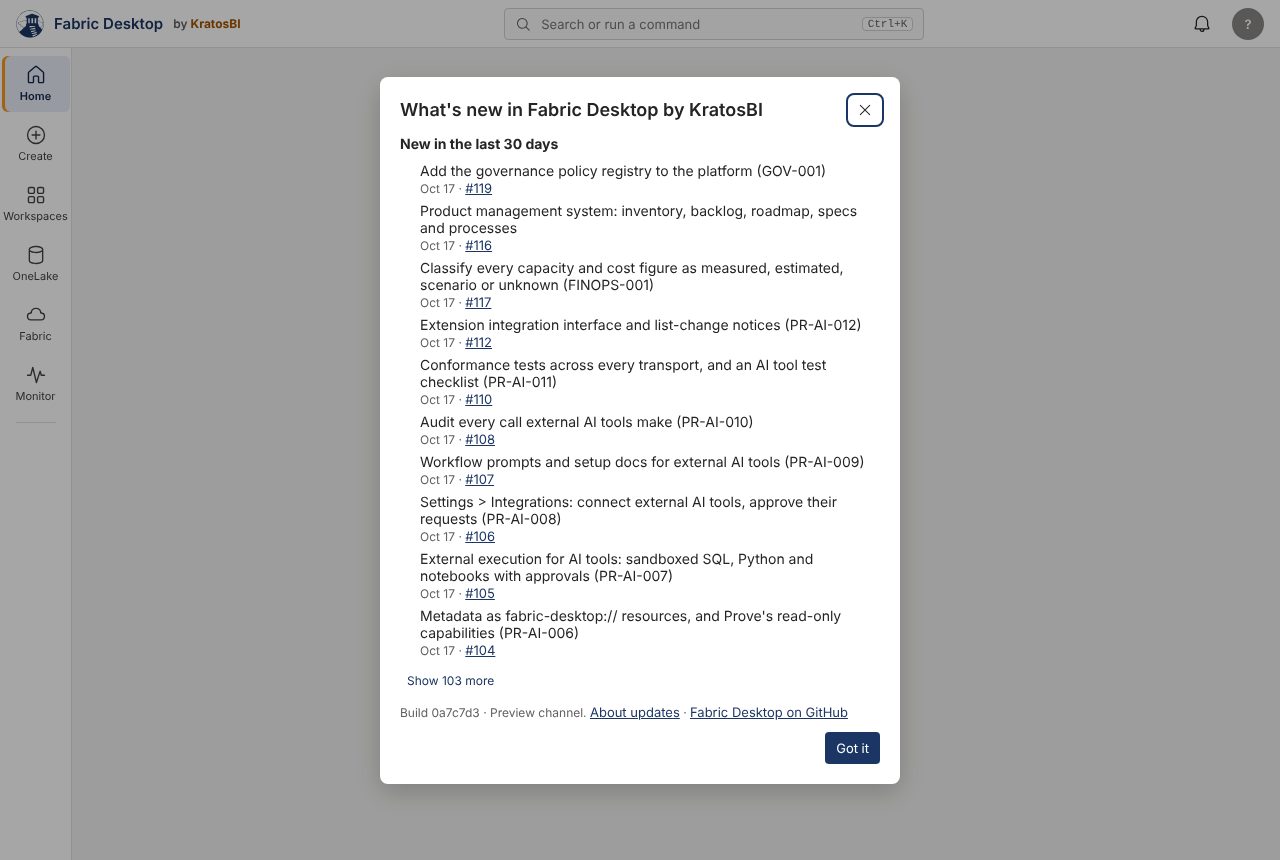
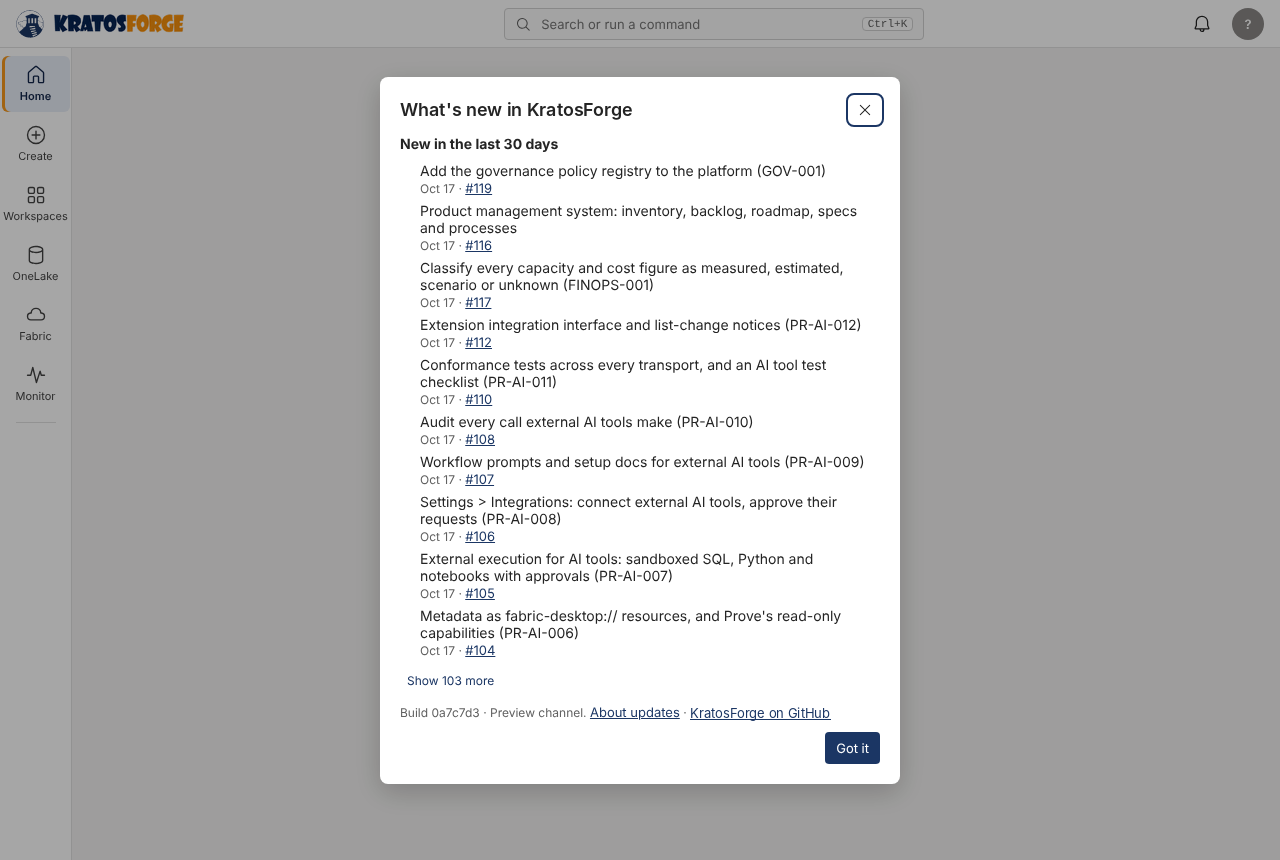
Docs site: say KratosForge only
Remove every prose, title, nav and image mention of the old product
name from the docs site and README. docs/kratosforge.md becomes "Legacy
names": the identifiers that keep the old name (exe, engine zip,
%LOCALAPPDATA%\FabricDesktop, FabricDesktop_Central, FABRIC_DESKTOP_*,
notebook marker cells, ...) stay, in code formatting, with why.

- why-fabric-desktop.md -> why-kratosforge.md; the two overview
  pictures are renamed and their titles now read KratosForge.
- Top bar and heading text in the UX audit and What's new screenshots
  now show KratosForge.
- The shell's no-engine message says KratosForge (docs quote it).

Claude-Session: https://claude.ai/code/session_01CLiGnG4FfE4qRwpSRTV5VQ

Changed region(s): [[0.0312, 0.0, 0.1875, 0.0605], [0.3438, 0.1209, 0.5938, 0.1512], [0.5312, 0.8163, 0.6562, 0.8465]]

diff --git a/app/src-tauri/src/main.rs b/app/src-tauri/src/main.rs
@@ -169,8 +169,8 @@ fn engine_python() -> Option<PathBuf> {
 /// look for a `python` on PATH, which could run whichever one comes first (SH-10).
 // Published builds install their engine before starting it, so this is a build with no engine to
 // download (one not built from a published commit).
-const NO_ENGINE: &str = "The Fabric Desktop engine isn't installed, and this build has none to download. \
-    Install a published build of Fabric Desktop, or set FABRIC_DESKTOP_PYTHON to the full path \
+const NO_ENGINE: &str = "The KratosForge engine isn't installed, and this build has none to download. \
+    Install a published build of KratosForge, or set FABRIC_DESKTOP_PYTHON to the full path \
     of a Python with the sidecar installed.";
 
 /// Picks the interpreter that runs the sidecar and the startup check, from

diff --git a/docs/quality/pr-review.md b/docs/quality/pr-review.md
@@ -1,6 +1,6 @@
 # PR quality gate
 
-How every pull request to Fabric Desktop by KratosBI gets an engineering quality decision. It sits beside the hardening release gates (`docs/hardening/readiness-checklist.md`, PR #137) and the usability gates (`docs/ux/release-review.md`, PR #166) and doesn't repeat them: those ask "is it safe" and "is it usable"; this asks "does this code deserve to exist in this form". Release management decides merges and promotes; this review recommends, and never merges or deploys.
+How every pull request to KratosForge gets an engineering quality decision. It sits beside the hardening release gates (`docs/hardening/readiness-checklist.md`, PR #137) and the usability gates (`docs/ux/release-review.md`, PR #166) and doesn't repeat them: those ask "is it safe" and "is it usable"; this asks "does this code deserve to exist in this form". Release management decides merges and promotes; this review recommends, and never merges or deploys.
 
 ## Scoring
 
@@ -403,11 +403,11 @@ What the set says about the baseline: the five FAILs are the patterns the [findi
 | #294 | FinOps: capacity settings history (`fdcap_`) | PASS at 3bd52b4 (draft, Preview, engine only) | 9.0 | None blocking. The only Fabric call is the existing `list_capacities` (GET /v1/capacities, paged), and it never changes a capacity. Writes go only to the `fdcap_` tables through `central_family(..., approve=...)`, so the first read is refused with 'Confirm to continue.' until confirmed. `capacity_settings_read` is audited as a write (not READ_ONLY). No new scope, and docs/permissions.md names this use of Capacity.Read.All. Diff logic (probe): a capacity missing from a read isn't marked changed; when it returns resized and paused the change spans from its last-seen read; ids compared lower-case; same-name different-id capacities stay apart; a repeated read adds nothing. The docs say it is untested on a live tenant. Nits: (1) `fdcap_read` grows as capacities × reads with no retention; worth a retention note. (2) A field briefly missing from a listed capacity logs a change to null. (3) Paging follows `continuationUri` through `_paged`, which uses HD-058's Fabric-host allowlist only once #272 lands (same exposure as `list_capacities` on main today). Tests run: test_capacity_history plus test_tenant_history gave 18 passed (targeted only). Clean merge with main. Probe: `quality/repros/r294_compare_edges.py`. |
 | #293 | Staged roadmap: one keys database for Dev, Test and Prod (engine) | FAIL at 8d279a0 (automatic failure: a Prod key can change though the docs say it never does; draft, Preview) | 7.8 | (1) Prod can issue keys during the move. `platform_share_keys` exports each source once, renumbers Dev/Test into the shared database, then switches with no lock on key issuing and no final re-check. Reproduced: Prod issued `late_prod_customer`=3 mid-move; in the shared database 3 is Dev's `aaron`; after the switch Prod's next load gets 4, so Prod facts carrying 3 point at the wrong customer. Fix: block key issuing on every source for the move (or refuse while runs are active), and before switching re-export each source and refuse if its row count or top key changed. (2) A partial move can't be re-run. If Test fails mid-move, Prod's and Dev's keys stay in the shared database; once Prod issues another key every re-run is refused ('key 2 is already used here by another business key'), and there is no reset. Fix: stage the move and clear the unswitched shared tables on retry after a confirm, or explain the state and offer a reset. (3) No preview or confirm: it writes to Fabric and switches every environment's key source with no `approve`. Return a dry-run report (tables, rows, how many Dev/Test keys change) and refuse with 'Confirm to continue.' until approved. Minor: under a policy-managed platform the copy runs before `_save_platform` raises PermissionError, so check that first. Nit: `DEFAULT_NAME = "Fabric Desktop Keys"` predates the rename. Verified fine: Prod numbers copy exactly and are checked row by row; sources are only read; HD-036 untouched (dedicated Keys workspace); the 3 new methods are audited as writes; no new scopes; Preview note in docs; server.METHODS and service.py merge cleanly with main. Tests run: test_shared_keys plus the related platform/central/keys files gave 77 passed. Probe: `quality/repros/r293_move_races.py` (re-run by me, both scenarios reproduce). |
 | #280 | Create tiles re-grade | PASS at 5c84708 (was CONDITIONAL 8.6 at ebaec3f; draft) | 9.2 | Both conditions met. Main is merged and the toast says 'Restart KratosForge'. The window `error` listener reports only events that carry `e.error`, so ResizeObserver noise and resource load failures stay quiet, and a browser test covers that. Tests run: ui.test.cjs 98/98; browser create-tiles.test.cjs 4/4 (both tiles open with the current engine, old-engine message, noise ignored, a thrown handler error and a rejected promise both show a toast). Clean merge with main 39f02ab. |
-| #280 | Create tiles: failures show an error instead of doing nothing (#279) | CONDITIONAL at ebaec3f (draft) | 8.6 | Conditions: (1) Merge main and say KratosForge. The new wizard toast says 'Restart Fabric Desktop by KratosBI', and after #287 that fails `ui.test.cjs` 'the app is called KratosForge everywhere people read it' (merged tree of #280 + main 39f02ab: 97 pass, 1 fail). The merge has no conflict, so git won't catch it. (2) The new global `error` listener (`app.js:92`) also fires for Chromium/WebView2's benign 'ResizeObserver loop completed with undelivered notifications' (e.error is null, only a message), and the app uses ResizeObserver in `app.js:761` and `meshmap.js:79`. Ignore that message (or events with no `e.error`) so people don't get a 'Something didn't work' toast for noise. The rest is sound: `friendlyError` handles strings and objects, cancellations stay quiet, `attempt()`-wrapped calls don't double-report, and the old-engine wizard check stops on a missing `groups`/`choices`/`multiline` field with a clear message. Tests run: ui.test.cjs on the merged tree as above. |
+| #280 | Create tiles: failures show an error instead of doing nothing (#279) | CONDITIONAL at ebaec3f (draft) | 8.6 | Conditions: (1) Merge main and say KratosForge. The new wizard toast says `Restart Fabric Desktop by KratosBI`, and after #287 that fails `ui.test.cjs` 'the app is called KratosForge everywhere people read it' (merged tree of #280 + main 39f02ab: 97 pass, 1 fail). The merge has no conflict, so git won't catch it. (2) The new global `error` listener (`app.js:92`) also fires for Chromium/WebView2's benign 'ResizeObserver loop completed with undelivered notifications' (e.error is null, only a message), and the app uses ResizeObserver in `app.js:761` and `meshmap.js:79`. Ignore that message (or events with no `e.error`) so people don't get a 'Something didn't work' toast for noise. The rest is sound: `friendlyError` handles strings and objects, cancellations stay quiet, `attempt()`-wrapped calls don't double-report, and the old-engine wizard check stops on a missing `groups`/`choices`/`multiline` field with a clear message. Tests run: ui.test.cjs on the merged tree as above. |
 | #292 | SQL compatibility browser test: rules version 2026.10.2 | PASS at ce78c27 | 9.4 | None. Test and docs only. #271 bumped `RULE_VERSION` to 2026.10.2 (`sqlcompat/profiles.py:14` on main), and the browser test regex and the docs version line still said 2026.10.1. No other references to 2026.10.1 remain. Tests run: `sql-compat.test.cjs` gives 9/9 twice on #292 and fails test 1 (8/9) on main 39f02ab. Fixes the browser failure seen on every UI PR. |
 | #282 | Validate notebook re-grade: Problems + Clean up tabs (NB-017, NB-018) | FAIL at ea44ed0 (automatic failure: overwrite wider than asked; was PASS 9.1 at 5697869; draft) | 8.2 | (1) Clean up's Undo stays offered after the person keeps editing. Clicking it puts back the pre-tidy-up snapshot (`validate.js:192,210-219`; `v.undo` is cleared only by Undo itself), which silently discards every later edit, and autosave writes that to the notebook file with no confirmation. Reproduced in a browser against the real engine: after apply, edit, Undo, the edit was gone and the last `save_notebook` carried the reverted sources. Fix: drop `v.undo` on any later cell edit (or offer Undo only while the cells still match what Apply produced), plus a browser test for edit-then-Undo. (2) `docs/validate-notebook.md` says a tidy-up never changes what the code does, but 'Remove unused imports' is ticked by default and removes side-effect imports (`import janitor`, then `df.clean_names()` in a later cell). Keep imports that no cell names unless the module is known to be side-effect free, or untick that tidy-up by default and soften the claim. Verified fine: the engine only reads code (`notebook_cleanup_plan` and apply are in READ_ONLY and return cells); every cleaned cell still parses; frozen and parameters cells, `%run`/`exec`/`import *`, later-cell, getattr and f-string uses are left alone; print removal is off by default; suggestions never apply themselves; Preview tag and How-this-works panel present; same-cell wording fixed. Tests run: ui 101/101; browser validate 2/2; sql-compat 'Warehouse problem is underlined' also fails on main 39f02ab (8/9 on both); full sidecar 2322 passed, 3 skipped; zensical --strict clean; clean merge with main. Probe: `quality/repros/r282_cleanup.py`. |
-| #287 | KratosForge rename re-grade | PASS at 51bb473 (was CONDITIONAL 8.4 at 68471e7; draft; workflow change, needs Chris's review) | 9.1 | Conditions met: REGISTRY_VERSION 3 records the real fingerprint; the orders-daily and TPC-H examples are regenerated; ci.yml/promote.yml change only the `--title` text (tags `latest`/`stable` and asset names untouched); issue/discussion templates renamed; Windows program-name row added. Confirmed main 69ae526 has no `promoted to Stable` phrase yet. Merge-order condition: #241 and #287 merge silently (no conflict), so the result would keep #241's two build titles as 'Fabric Desktop by KratosBI (build ...)' (ci.yml:295, promote.yml:90). Whichever lands second renames those two and keeps the exact `promoted to Stable` text the prune step matches (ci.yml:318). Tests run: test_activity_registry plus test_side_by_side gave 99 passed, 2 skipped; ui.test.cjs 98/98; clean merge with main 69ae526 and with #241 b047c1e. |
-| #287 | Rename to KratosForge + one-time launch announcement | CONDITIONAL at 68471e7 (draft) | 8.4 | Conditions: (1) `test_activity_registry.py` fails 2 tests at the PR head (main passes): `test_registry_version_changes_with_entries` (the fingerprint recorded for version 3 doesn't match the entries) and `test_example_report_in_docs_is_current` (the example compatibility JSON in docs/orchestration still shows `registry_version` 2). Record the real fingerprint and regenerate the example. (2) `docs/kratosforge.md:11` says the GitHub release titles are now KratosForge, but the PR doesn't touch `.github/` (`ci.yml:278` and `promote.yml:42` still say Fabric Desktop by KratosBI). Either drop the line or change the titles; if the titles change, #241's build-* and promote titles must keep the exact phrase `promoted to Stable` that its prune step matches, and Chris reviews it as a workflow change. Nit: the 'What didn't change' table could mention that the Windows program name (productName) stays Fabric Desktop. Verified: Chris asked for it in his own words (rename thread root, 2026-10-19 08:22Z). productName, the Tauri id, updater/asset names, the fabric_desktop package, MCP server name, notebook markers, FabricDesktop_Central, the Platform workspace default, FABRIC_DESKTOP_* env vars and fd* prefixes are unchanged. REGISTRY_VERSION is informational only, and nothing branches on it. Splash: shows once (try/catch storage; fails open to showing again), role=dialog/aria-modal, focus on its button with the Tab trap, Escape closes it, reduced motion respected, local assets only. Tests run: ui.test.cjs 98/98; browser rename-splash/keyboard/confirm 11/11; zensical --strict clean; 18 sidecar files 525 passed, 2 failed (above). Clean merge with main 2ee22f9. |
+| #287 | KratosForge rename re-grade | PASS at 51bb473 (was CONDITIONAL 8.4 at 68471e7; draft; workflow change, needs Chris's review) | 9.1 | Conditions met: REGISTRY_VERSION 3 records the real fingerprint; the orders-daily and TPC-H examples are regenerated; ci.yml/promote.yml change only the `--title` text (tags `latest`/`stable` and asset names untouched); issue/discussion templates renamed; Windows program-name row added. Confirmed main 69ae526 has no `promoted to Stable` phrase yet. Merge-order condition: #241 and #287 merge silently (no conflict), so the result would keep #241's two build titles as `Fabric Desktop by KratosBI (build ...)` (ci.yml:295, promote.yml:90). Whichever lands second renames those two and keeps the exact `promoted to Stable` text the prune step matches (ci.yml:318). Tests run: test_activity_registry plus test_side_by_side gave 99 passed, 2 skipped; ui.test.cjs 98/98; clean merge with main 69ae526 and with #241 b047c1e. |
+| #287 | Rename to KratosForge + one-time launch announcement | CONDITIONAL at 68471e7 (draft) | 8.4 | Conditions: (1) `test_activity_registry.py` fails 2 tests at the PR head (main passes): `test_registry_version_changes_with_entries` (the fingerprint recorded for version 3 doesn't match the entries) and `test_example_report_in_docs_is_current` (the example compatibility JSON in docs/orchestration still shows `registry_version` 2). Record the real fingerprint and regenerate the example. (2) `docs/kratosforge.md:11` says the GitHub release titles are now KratosForge, but the PR doesn't touch `.github/` (`ci.yml:278` and `promote.yml:42` still say `Fabric Desktop by KratosBI`). Either drop the line or change the titles; if the titles change, #241's build-* and promote titles must keep the exact phrase `promoted to Stable` that its prune step matches, and Chris reviews it as a workflow change. Nit: the 'What didn't change' table could mention that the Windows program name (productName) stays `Fabric Desktop`. Verified: Chris asked for it in his own words (rename thread root, 2026-10-19 08:22Z). productName, the Tauri id, updater/asset names, the fabric_desktop package, MCP server name, notebook markers, FabricDesktop_Central, the Platform workspace default, FABRIC_DESKTOP_* env vars and fd* prefixes are unchanged. REGISTRY_VERSION is informational only, and nothing branches on it. Splash: shows once (try/catch storage; fails open to showing again), role=dialog/aria-modal, focus on its button with the Tab trap, Escape closes it, reduced motion respected, local assets only. Tests run: ui.test.cjs 98/98; browser rename-splash/keyboard/confirm 11/11; zensical --strict clean; 18 sidecar files 525 passed, 2 failed (above). Clean merge with main 2ee22f9. |
 | #286 | Prove: #283 nits (unreachable branch, checksum rounding doc) | PASS at 29e7897 | 9.3 | None. The removed `{number, integer}` branch in `_keyed` is unreachable: `_columns` (verify.py:96-97) already rewrites widened pairs to (number, number). The doc line matches `_norm`/`fingerprint` (decimals and widened columns rounded to 10 significant digits; integers exact). No behaviour change: the r283 probe output is byte-identical on main and #286. Tests run: test_prove plus test_side_by_side gave 74 passed, 2 skipped; it merges cleanly with main. |
 | #285 | ORCH-003: on-disk run record test waits for the final save | PASS at 0893e92 | 9.3 | None. Test-only. `saved()` polls the run JSON until its state is final (30 s limit, tolerates a partial read) because status reads the live run, which turns final just before the background thread's last save. This fixes the Windows flake seen on #284. Reproduced independently with a 0.5 s sleep before the final `_changed()` in `orchestration/runner.py:257`: main's test fails ('running' == 'succeeded'), #285's passes. Sleep removed afterwards; `test_pipeline_runs.py` gave 104 passed. The restart check that follows now also reads a final record. |
 | #283 | Prove re-grade: tolerance only between finite numbers | PASS at 533721b (was FAIL 7.5 at 8c69985) | 9.1 | Fixed. An `isfinite` guard means the abs/rel tolerance applies only between finite values; NaN=NaN, inf=inf and -inf=-inf still match, while 1 vs NaN, 1 vs inf, inf vs -inf, 1e308 vs inf and 0 vs null differ in all three modes (checked by hand). This also fixes main's pre-existing double-vs-double false match in keyed mode. Probe `quality/repros/r283_int_double.py` now gives the same answer in every mode on every row. Tests run: test_prove plus test_side_by_side gave 74 passed, 2 skipped; it merges cleanly with main. Nits: the `{ka, kb} <= {number, integer}` branch in `_keyed` is now unreachable, and the docs could say that above `limit_rows` integers are compared to 10 significant digits. |
@@ -439,7 +439,7 @@ What the set says about the baseline: the five FAILs are the patterns the [findi
 | #266 | HD-053 re-check | PASS holds at cfb4fab (maintainer review: data mutation) | 9.2 | New `test_notebookutils_rm_cant_climb_out_of_files` refuses `Files/../..`, `Files/..` and `/lakehouse/default/Files/%2e%2e` with 0 mutating requests. Merge with HD-039 keeps `item_path` in all six FileStore methods; only GETs go through `send_with_retry`, upload PUT/PATCH and DELETE are sent once. Repros: r266_item_path.py 0 escapes; r266_notebook_rm_escape.py 3/3 refused, 0 requests. Run: test_contract_onelake + test_retry_after 63 passed; `-k "onelake or notebookutils or retry or lakehouse or files"` 196 passed. |
 | #263 | HD-055 re-check | PASS holds at cbbd558; needs a main merge (conflicts in estate_service.py, leases.py, mailbox.py) | 9.1 | All four nits fixed: server.py `_log_to_stderr` adds one INFO handler on `fabric_desktop` with a formatter that passes the whole record through `secrets()` (run: DEBUG dropped, SAS `sig=`, Bearer and URL userinfo in a traceback come out `[removed]`); `describe()` guards `str(exc)`; proof_runtime.py:174 catches ImportError only; schedule scan logs one WARNING per scan. Run: test_silent_except + test_redact 71 passed; `-k "schedule or proof or server or log or redact"` 155 passed. Nits: some INFO lines fire on every call (`get_status` "Not signed in", MCP `_client_name`); a bare `sig=` outside a URL isn't redacted (pre-existing). |
 | #260 | HD-014 main-merge re-check | PASS holds at 009a352 | 9.2 | Merge only: the PR's change against main 7d3b82c matches 779b19c line for line (16 files, +733/-79); main's #265 kernel test kept. Run: `-k "integrations or scope"` 312 passed. |
-| #269 | Wolf Forge emblem as the app logo, favicon and Windows icon | PASS at 77a9014 (draft) | 9.2 | No blocker; images and markup only (no code path, write, scope, CSP or workflow change); merges cleanly with main 7d3b82c. Icons opened with PIL: tauri.conf.json still points at `icons/icon.png` (512x512 RGBA) and `icons/icon.ico` (16/24/32/48/64/128/256, as before); app/ui emblem 128x128 and favicon 32x32 with transparent corners. Nothing still references the deleted `app/ui/kratosbi-mark.svg`; index.html loads only local PNGs; title "Fabric Desktop by KratosBI" unchanged. Emblem ownership is the PR's claim (not verified). Run: UI 94/94 (new test checks header, favicon, removed SVG, ico sizes); browser 69/69; `zensical build --strict` clean. Not run: Windows taskbar/installer rendering (no GTK); #250 CSP interaction inferred fine (`img-src 'self'`). Nits: the 16 px frame is muddy (hand-tune it); header `alt="KratosBI"` next to the visible "by KratosBI" is read twice (use `alt=""`); repo grows ~500 KB. |
+| #269 | Wolf Forge emblem as the app logo, favicon and Windows icon | PASS at 77a9014 (draft) | 9.2 | No blocker; images and markup only (no code path, write, scope, CSP or workflow change); merges cleanly with main 7d3b82c. Icons opened with PIL: tauri.conf.json still points at `icons/icon.png` (512x512 RGBA) and `icons/icon.ico` (16/24/32/48/64/128/256, as before); app/ui emblem 128x128 and favicon 32x32 with transparent corners. Nothing still references the deleted `app/ui/kratosbi-mark.svg`; index.html loads only local PNGs; title `Fabric Desktop by KratosBI` unchanged. Emblem ownership is the PR's claim (not verified). Run: UI 94/94 (new test checks header, favicon, removed SVG, ico sizes); browser 69/69; `zensical build --strict` clean. Not run: Windows taskbar/installer rendering (no GTK); #250 CSP interaction inferred fine (`img-src 'self'`). Nits: the 16 px frame is muddy (hand-tune it); header `alt="KratosBI"` next to the visible "by KratosBI" is read twice (use `alt=""`); repo grows ~500 KB. |
 | #262 | Optimize central_restrict re-grade | PASS at e2c5816 (was CONDITIONAL 8.3 at 19a0a23; maintainer review: role changes) | 9.1 | Both conditions fixed. 1: a `*` DefaultReader now drops every registered family's schema (roles.py:69-70), so a second family can still be restricted (`/Tables/hr` absent after restricting `access`). 2: roles compare by paths and members only (`_same`, roles.py:38-45) and Fabric's id/eTag are kept when they match, so a rerun gives `changed: False` and 0 PUTs. The PUT sends `If-Match` with the list ETag (fabric_api.py:352-371); 412/PreconditionFailed becomes CHANGED_SINCE with no audit row (optimize_service.py:222-226). A mismatched `shown=` refuses before any PUT; refusals and previews make 0 PUTs; other roles go into the PUT unchanged; no new scope (`OneLake.ReadWrite.All`, docs/permissions.md:68). Probe r262b_restrict_fixes.py 4 passed. Run: optimize roles/service/setup + fabric_api 55 passed; full sidecar 2080 passed, 2 skipped; UI 93/93. Must-do for Governance as first caller: always pass `shown=` with `approve=True` (without it the plan is re-read and written as is). Nits: make `shown=` required on approve; return the change list from the preview (the "; "-joined string can't be split back); mark central_restrict untested on a live tenant (ETag on list and If-Match on PUT unverified; with no ETag the PUT goes without If-Match); estate_service.py:445-458 still does a whole-list PUT (follow-up). |
 | #269 | Emblem nit re-check | PASS holds at 62882fc (draft) | 9.3 | Both nits fixed: header emblem `alt=""` (index.html), and icon.ico's 16 px entry re-rendered (ico still 16/24/32/48/64/128/256, checked with PIL). Only those two files changed since 77a9014. Run: UI 94/94. |
 | #267 | HD-054: opt-in live SQL compatibility test against a test workspace | PASS at 708eaac (draft; maintainer review: workflow and test sign-in) | 9.1 | Workflow runs only on `workflow_dispatch` and `schedule`, gated `if: github.ref == 'refs/heads/main'`, `permissions: contents: read`, the secret only on the gated step, actions SHA-pinned; inert until the secret exists. The live test can't reach production: workspace marker required, production-looking names refused, read-only cases only, rollback, service-principal sign-in only. Run: targeted 314 passed, 70 skipped (live cases), 7 xfailed (strict); full sidecar 2374 passed, 72 skipped, 7 xfailed; `zensical build --strict` clean. Live run not executed here (no tenant). Nits: no GitHub environment with required reviewers; docs don't say the weekly run uses capacity; results are written only at teardown. Six local bugs the xfails pin, for the SQL owner: DATENAME crashes Format SQL (AttributeError in sql_format.py `_difference`); Format SQL rewrites LIMIT to TOP for T-SQL so SYN-001 is lost (`format_sql`); the check misses QUALIFY and CAST AS STRING (sqlcompat/rules.py:77, SYN-009); Spark `date_add` returns a timestamp locally and `trunc(..., 'MM')` fails in DuckDB (sqlglot transpile in sql.py). |

diff --git a/README.md b/README.md
@@ -2,15 +2,15 @@
 
 ![KratosForge](docs/brand/kratosforge-wordmark.png)
 
-*Formerly Fabric Desktop. [What changed and what didn't](docs/kratosforge.md).*
+*Some files, folders and settings keep a legacy name so nothing breaks: [which ones and why](docs/kratosforge.md).*
 
 Do your Microsoft Fabric data engineering on your own Windows PC: notebooks, Spark SQL queries, jobs and a metadata-driven medallion framework. Results are written straight into OneLake as Delta tables. A run on this PC starts no Fabric job, which cuts Fabric CU use; its OneLake reads and writes still use capacity.
 
-![KratosForge in a Microsoft Fabric solution: develop locally, execute on your infrastructure, store and consume in Microsoft Fabric](docs/fabric-desktop-solution.png)
+![KratosForge in a Microsoft Fabric solution: develop locally, execute on your infrastructure, store and consume in Microsoft Fabric](docs/kratosforge-solution.png)
 
 **Develop with KratosForge. Execute on your infrastructure. Store and consume in Microsoft Fabric.** The picture above is where the product is headed. Today the desktop app and a single-node [headless agent](docs/agent.md) are built; multiple workers, resource governance and pipeline hand-off are later milestones in the [enterprise roadmap](docs/enterprise-roadmap.md).
 
-**Why it exists:** Power BI took off because developers could build on their own machine and deploy to the cloud. KratosForge brings that model to data engineering. Read the story in **[Bringing the Power BI Model to Data Engineering](docs/why-fabric-desktop.md)**.
+**Why it exists:** Power BI took off because developers could build on their own machine and deploy to the cloud. KratosForge brings that model to data engineering. Read the story in **[Bringing the Power BI Model to Data Engineering](docs/why-kratosforge.md)**.
 
 ![KratosForge architecture](docs/architecture.svg)
 
@@ -30,7 +30,7 @@ How the pieces fit together, how a request flows and how writes reach OneLake: s
 
 | Document | What it covers |
 | --- | --- |
-| [docs/kratosforge.md](docs/kratosforge.md) | Fabric Desktop is now KratosForge: what changed, and which names stay so nothing breaks |
+| [docs/kratosforge.md](docs/kratosforge.md) | Legacy names: which files, folders and settings keep an earlier name so nothing breaks |
 | [docs/install.md](docs/install.md) | Installing on a PC: requirements, first start, Windows blocking the engine, updates and channels, where files live, uninstalling |
 | [docs/backup.md](docs/backup.md) | Backing up and restoring what the app keeps only on your PC, without sign-in tokens |
 | [docs/enterprise-install.md](docs/enterprise-install.md) | Rolling the app out with Intune or Configuration Manager: what to deploy, self-updating or managed updates, rollback, failed updates, network access |
@@ -83,7 +83,7 @@ How the pieces fit together, how a request flows and how writes reach OneLake: s
 | [docs/release-management/README.md](docs/release-management/README.md) | How a merge becomes a Preview build and a Stable release, who approves each step, integrating parallel pull requests, rollback and versioning, with the current [release status](docs/release-management/release-status.md) |
 | [docs/live-testing.md](docs/live-testing.md) | Checking sign-in, the Fabric API, OneLake and Delta on your own tenant against a workspace set aside for tests (`fabric-desktop live-test`) |
 | [docs/ideas.md](docs/ideas.md) | Submitting ideas to the public Ideas forum, voting, and how ideas are prioritized |
-| [docs/why-fabric-desktop.md](docs/why-fabric-desktop.md) | Why KratosForge is needed: bringing Power BI's build-locally, deploy-to-the-cloud model to data engineering |
+| [docs/why-kratosforge.md](docs/why-kratosforge.md) | Why KratosForge is needed: bringing Power BI's build-locally, deploy-to-the-cloud model to data engineering |
 | [docs/architecture.md](docs/architecture.md) | How the app, the sidecar and OneLake fit together |
 | [docs/ai/README.md](docs/ai/README.md) | Connecting your own AI tool to KratosForge: setup for each tool, workflows and instructions to paste |
 | [docs/architecture/ai-integration.md](docs/architecture/ai-integration.md) | Using your own AI tool (Claude, Codex, Copilot, Cursor, any MCP client) with KratosForge: architecture, permissions, plan |

diff --git a/docs/kratosforge.md b/docs/kratosforge.md
@@ -1,22 +1,18 @@
-# Fabric Desktop is now KratosForge
+# Legacy names
 
 ![KratosForge](brand/kratosforge-wordmark.png)
 
-The app called Fabric Desktop (and Fabric Desktop by KratosBI) is now **KratosForge**. It is the same app from the same team, KratosBI, and it updates itself to the new name like any other update. The first time it starts after that update it shows a one-time announcement; close it with **Enter the forge**, Escape or Enter. To see it again, search for **About the new name** in the command bar (Ctrl+K).
+KratosForge is the app's name everywhere you read it: the window title, the top bar, menus, messages, the docs and the docs site. Installed copies took the name through a normal update. The first time the app starts after that update it shows a one-time announcement; close it with **Enter the forge**, Escape or Enter. To see it again, search for **About the new name** in the command bar (Ctrl+K).
 
-## What changed
+The top bar shows the KratosForge wordmark beside the Wolf Forge emblem, and the release titles on GitHub are **KratosForge (stable)** and **KratosForge (latest build)**.
 
-- The name in the window title, the top bar, menus, messages, the docs and the docs site.
-- The top bar shows the KratosForge wordmark beside the Wolf Forge emblem.
-- The release titles on GitHub: **KratosForge (stable)** and **KratosForge (latest build)**.
+## Names that stay as they are
 
-## What didn't change
+Some files, folders, settings and markers keep a legacy name from before KratosForge. Nothing you built moves, and nothing has to be set up again: existing installations, notebooks and workspaces find each other by these names, so they don't change. Where the docs show one, type or look for it exactly as written.
 
-Nothing you built moves, and nothing has to be set up again. These keep their old names on purpose, because existing installations, notebooks and workspaces find each other by them:
-
-| What | Still called | Why it stays |
+| What | Legacy name | Why it stays |
 | --- | --- | --- |
-| The download, the program file and the Windows program name | `fabric-desktop.exe`, `fabric-desktop-engine.zip`, "Fabric Desktop" | Updates replace the file people already have, and download links keep working. |
+| The download, the program file and the Windows program name | `fabric-desktop.exe`, `fabric-desktop-engine.zip`, `Fabric Desktop` | Updates replace the file people already have, and download links keep working. |
 | The folder on your PC | `%LOCALAPPDATA%\FabricDesktop` | Your notebooks, sign-in, settings and engine are there ([where files live](install.md#where-things-are-kept-on-your-pc)). |
 | The Windows app identity and update address | `com.kratosbi.fabricdesktop`, the `fabric-desktop` GitHub releases | Changing either would stop installed copies from updating. |
 | Platform workspaces it suggests | `Fabric Desktop Platform - <Environment>` | Existing workspaces are found by this name ([the platform](platform.md)). |
@@ -24,6 +20,6 @@ Nothing you built moves, and nothing has to be set up again. These keep their ol
 | Cells the app adds to notebooks | `# Fabric Desktop setup`, `# Fabric Desktop proof`, `# Fabric Desktop side by side`, `# Fabric Desktop runner` | The app recognizes its own cells by these first lines, in notebooks already in Fabric too. |
 | The Python package, command and settings | `fabric_desktop`, `fabric-desktop`, `FABRIC_DESKTOP_*` variables, the `fabric_desktop_*` MCP tools | Scripts, agents, policies and AI tool setups use them. |
 
-## The repository's new address
+## The repository's address
 
-The repository moved from `github.com/KratosDataGod/fabric-desktop` to `github.com/KratosDataGod/KratosForge`. GitHub forwards the old address, so saved links, clones and installed copies' updates keep working. The docs site moved to [kratosdatagod.github.io/kratosforge](https://kratosdatagod.github.io/kratosforge/); the old docs address is not forwarded.
+The repository is `github.com/KratosDataGod/KratosForge`. Its earlier address, `github.com/KratosDataGod/fabric-desktop`, forwards to it, so saved links, clones and installed copies' updates keep working. The docs site is [kratosdatagod.github.io/kratosforge](https://kratosdatagod.github.io/kratosforge/); the earlier docs address is not forwarded.

diff --git a/docs/user-guide.md b/docs/user-guide.md
@@ -354,7 +354,7 @@ Monitor has two halves.
 **From KratosForge** (top) has three tabs:
 
 - **Runs:** everything this app ran or started, in every environment, on this PC and in Fabric: metadata runs, notebook table writes, notebook runs in Fabric, scheduled runs on this PC, and table maintenance jobs. Filter by environment (All, Dev, Test, Prod) and by where it ran (Anywhere, This PC, Fabric). **Problems first** puts failures at the top. Each failed row says why. When a failed scheduled run on this PC couldn't post its Teams alert, the row says that too, and so does the schedule's last result in **Schedules**. The alert isn't lost: it waits on this PC (in `schedule_alerts.sqlite3`) and is posted, marked **Delayed**, after the next scheduled run here, oldest first; one still waiting after three days is dropped. If the metadata project can't be read (a broken `layers.toml`, say), Runs says so above the list instead of showing no metadata runs, Home says it couldn't check the metadata project, and the bell says freshness wasn't checked. Each metadata run says where it ran: **This PC**, **Agent** with the agent's name and server, or **Fabric**. Click a row for its details: a metadata run shows each step with rows and time, each check with how many rows failed, and the job it belongs to (the agent's job id, or the request id of a run in Fabric, which names its result file in `LH_Meta/Files/_fabric_desktop/results/`) and which try it was. Test and Prod runs show once you're signed in.
-- **Schedules** (Preview): every schedule, on this PC and in Fabric, in one list, with how its last run went, when it runs next, and **Run now**, **On/Off**, **Open** and **Remove**. **Remove** asks first and says what stops: on this PC it deletes the Windows task, in Fabric it deletes the schedule there, and past runs stay. To stop a schedule for a while, turn it Off instead. Schedules on this PC are started by Windows Task Scheduler even when the app is closed, as long as the PC is on and you are signed in to it. Fabric schedules run on capacity even when your PC is off. If this PC's schedules file is ever damaged (a crash mid-save, say), it is moved aside to `schedules.json.corrupt-<time>` in the app's folder, and a warning above the list says when and where. Schedules saved before then aren't listed, but Task Scheduler may still have tasks for them under **FabricDesktop**. Their runs fail and don't show here. The moved-aside file has the old schedules if you want to add them again. The warning goes away once that file is moved out of the folder or deleted.
+- **Schedules** (Preview): every schedule, on this PC and in Fabric, in one list, with how its last run went, when it runs next, and **Run now**, **On/Off**, **Open** and **Remove**. **Remove** asks first and says what stops: on this PC it deletes the Windows task, in Fabric it deletes the schedule there, and past runs stay. To stop a schedule for a while, turn it Off instead. Schedules on this PC are started by Windows Task Scheduler even when the app is closed, as long as the PC is on and you are signed in to it. Fabric schedules run on capacity even when your PC is off. If this PC's schedules file is ever damaged (a crash mid-save, say), it is moved aside to `schedules.json.corrupt-<time>` in the app's folder, and a warning above the list says when and where. Schedules saved before then aren't listed, but Task Scheduler may still have tasks for them under the `FabricDesktop` folder. Their runs fail and don't show here. The moved-aside file has the old schedules if you want to add them again. The warning goes away once that file is moved out of the folder or deleted.
 - **Operations** (Preview): the views for running workloads day to day. **Show** picks one, and Operations opens on the last one you used:
   - **Workloads**: everything you build and run, with its health, owner and what you can do with it. See [Workloads](#workloads-preview) below.
   - **Queue**: what is running, queued and next, on this PC, on agents and in Fabric, with who owns each item. See [Queue](#queue-preview) below.

diff --git a/docs/security.md b/docs/security.md
@@ -41,7 +41,7 @@ How KratosForge protects your sign-in, your data and your PC, what it trusts, an
 | A Stable PC getting an untested engine | The engine comes from the Stable release | In place: Stable falls back to another channel only when its release has no engine, never on a network error (HD-008, #158) |
 | Someone who can publish releases replaces every file | Checksums in the same release don't stop this. Code signing would (waiting on the Trusted Signing account); build provenance attestations are produced but nothing checks them yet | **Open** (SH-2, HD-021). Until signing exists, releases publish unsigned without failing |
 | A `curl.exe` or `tar.exe` saved next to the app runs instead of Windows' own | Windows tools run by full path from `%SystemRoot%\System32` | In place from FD-102a |
-| A `python.exe` planted earlier on `PATH` runs as the engine | The shell runs only the engine under `%LOCALAPPDATA%\FabricDesktop\engine`, or `FABRIC_DESKTOP_PYTHON` when it is a full path. Release builds never look up a bare `python` on `PATH`: with no engine they show "The Fabric Desktop engine isn't installed or couldn't be found" and offer the download again. Only debug builds (`cargo run`) fall back to `python` on `PATH` | In place from HD-026 (SH-10) |
+| A `python.exe` planted earlier on `PATH` runs as the engine | The shell runs only the engine under `%LOCALAPPDATA%\FabricDesktop\engine`, or `FABRIC_DESKTOP_PYTHON` when it is a full path. Release builds never look up a bare `python` on `PATH`: with no engine they show "The KratosForge engine isn't installed" and offer the download again. Only debug builds (`cargo run`) fall back to `python` on `PATH` | In place from HD-026 (SH-10) |
 | A spoofed Fabric response or a proxy steers the token to another site | A next-page or operation URL from Fabric is followed only over https on the same host or a Fabric, OneLake or Power BI host; anything else is refused before a request is sent | In place (HD-058) |
 | Tokens copied from the PC | Token cache is per user; written atomically; with Windows sign-in the broker holds the primary token | **Partly open**: the cache file isn't encrypted on any OS (FD-131b, decision D-C2), so any program or notebook running as you, including Python an AI tool runs, can read it (EN-2, EN-10) |
 | Tokens or personal data in logs, error messages or Report a problem | `redact.py` removes tokens, keys, passwords and Teams / Office 365 webhook addresses (whole, or the path a failed post prints on its own) from every error the UI shows, the audit log and agent logs; Report a problem and support bundles also remove emails, user names in paths and ids (FD-131a, FD-138) | In place, including agent log fields (HD-007, #157) |

diff --git a/docs/README.md b/docs/README.md
@@ -2,7 +2,7 @@
 
 KratosForge runs Microsoft Fabric data engineering work on your own PC (notebooks, Spark SQL, and a metadata-driven medallion framework) and writes the results straight into OneLake. Start with the guide for what you're doing.
 
-Formerly Fabric Desktop: [what changed with the new name, and what didn't](kratosforge.md).
+Some files, folders and settings keep a legacy name so nothing breaks: [which ones and why](kratosforge.md).
 
 ## Start here
 
@@ -108,7 +108,7 @@ Formerly Fabric Desktop: [what changed with the new name, and what didn't](krato
 | [product/enterprise-gap-analysis.md](product/enterprise-gap-analysis.md) | Platform owners, contributors | The enterprise product program: what exists for each capability FD-101 to FD-140, what's missing and who owns it ([backlog](product/enterprise-backlog.md), [decisions](product/implementation-decisions.md)) |
 | [product/release-readiness.md](product/release-readiness.md) | Platform owners | What must be true before an enterprise pilot, the capability matrix and the pilot checklist |
 | [product/PRODUCT_MANAGEMENT_PROCESS.md](product/PRODUCT_MANAGEMENT_PROCESS.md) | Product owner, contributors | How work is chosen, ranked, built and accepted: the [feature inventory](product/FEATURE_INVENTORY.md), [backlog](product/PRODUCT_BACKLOG.md), [roadmap](product/PRIORITIZED_ROADMAP.md), [PR-ready specs](product/pr-ready/README.md), [implementation review](product/IMPLEMENTATION_REVIEW_PROCESS.md) and [competitive matrix](product/COMPETITIVE_CAPABILITY_MATRIX.md) |
-| [why-fabric-desktop.md](why-fabric-desktop.md) | Everyone | Why it exists: the Power BI model for data engineering |
+| [why-kratosforge.md](why-kratosforge.md) | Everyone | Why it exists: the Power BI model for data engineering |
 | [CONTRIBUTING.md](https://github.com/KratosDataGod/KratosForge/blob/main/CONTRIBUTING.md) | Contributors | Setting up, rules for changes, pull requests |
 
 ## What is tested and what isn't

diff --git a/docs/finops/placement-advice.md b/docs/finops/placement-advice.md
@@ -1,6 +1,6 @@
 # Where to run a notebook (Preview)
 
-Fabric Desktop by KratosBI can say whether a notebook is better run **on this PC** or **in Fabric**, and show the evidence behind that. This is FINOPS-005's advisor. It gives advice only: it never changes a notebook's **Runs on**, never starts a run, and never works out Fabric CU from the time a run took on this PC.
+KratosForge can say whether a notebook is better run **on this PC** or **in Fabric**, and show the evidence behind that. This is FINOPS-005's advisor. It gives advice only: it never changes a notebook's **Runs on**, never starts a run, and never works out Fabric CU from the time a run took on this PC.
 
 The advice is available to tools connected through [MCP or the local API](../ai/README.md) as `fabric_desktop_placement_advice` (Preview, read-only). Prove will show it on its screens.
 

diff --git a/docs/why-kratosforge.md b/docs/why-kratosforge.md
@@ -8,7 +8,7 @@ KratosForge brings that same philosophy to Microsoft Fabric.
 
 Thanks to OneLake and open Delta Lake formats, developers can now go a step further. They can build and execute data engineering workloads using local compute resources while reading and writing data directly to OneLake. That data is immediately available to Microsoft Fabric workloads, including Warehouses, Lakehouses, Power BI, and AI.
 
-![KratosForge: build locally, run in your infrastructure, read and write directly to OneLake, and consume in every Microsoft Fabric workload](fabric-desktop-model.png)
+![KratosForge: build locally, run in your infrastructure, read and write directly to OneLake, and consume in every Microsoft Fabric workload](kratosforge-model.png)
 
 The result is a new approach to Fabric development:
 

diff --git a/docs/enterprise-roadmap.md b/docs/enterprise-roadmap.md
@@ -2,7 +2,7 @@
 
 **Develop with KratosForge. Execute on your infrastructure. Store and consume in Microsoft Fabric.**
 
-![KratosForge in a Microsoft Fabric solution](fabric-desktop-solution.png)
+![KratosForge in a Microsoft Fabric solution](kratosforge-solution.png)
 
 This is the assessment and plan for growing KratosForge from a desktop development app into a platform that runs Fabric-compatible data engineering on your own Windows and Linux servers. It was written on 2026-10-15 against `main` at `8edf88a`. Milestone M1, the [headless agent](agent.md), is now built.
 
